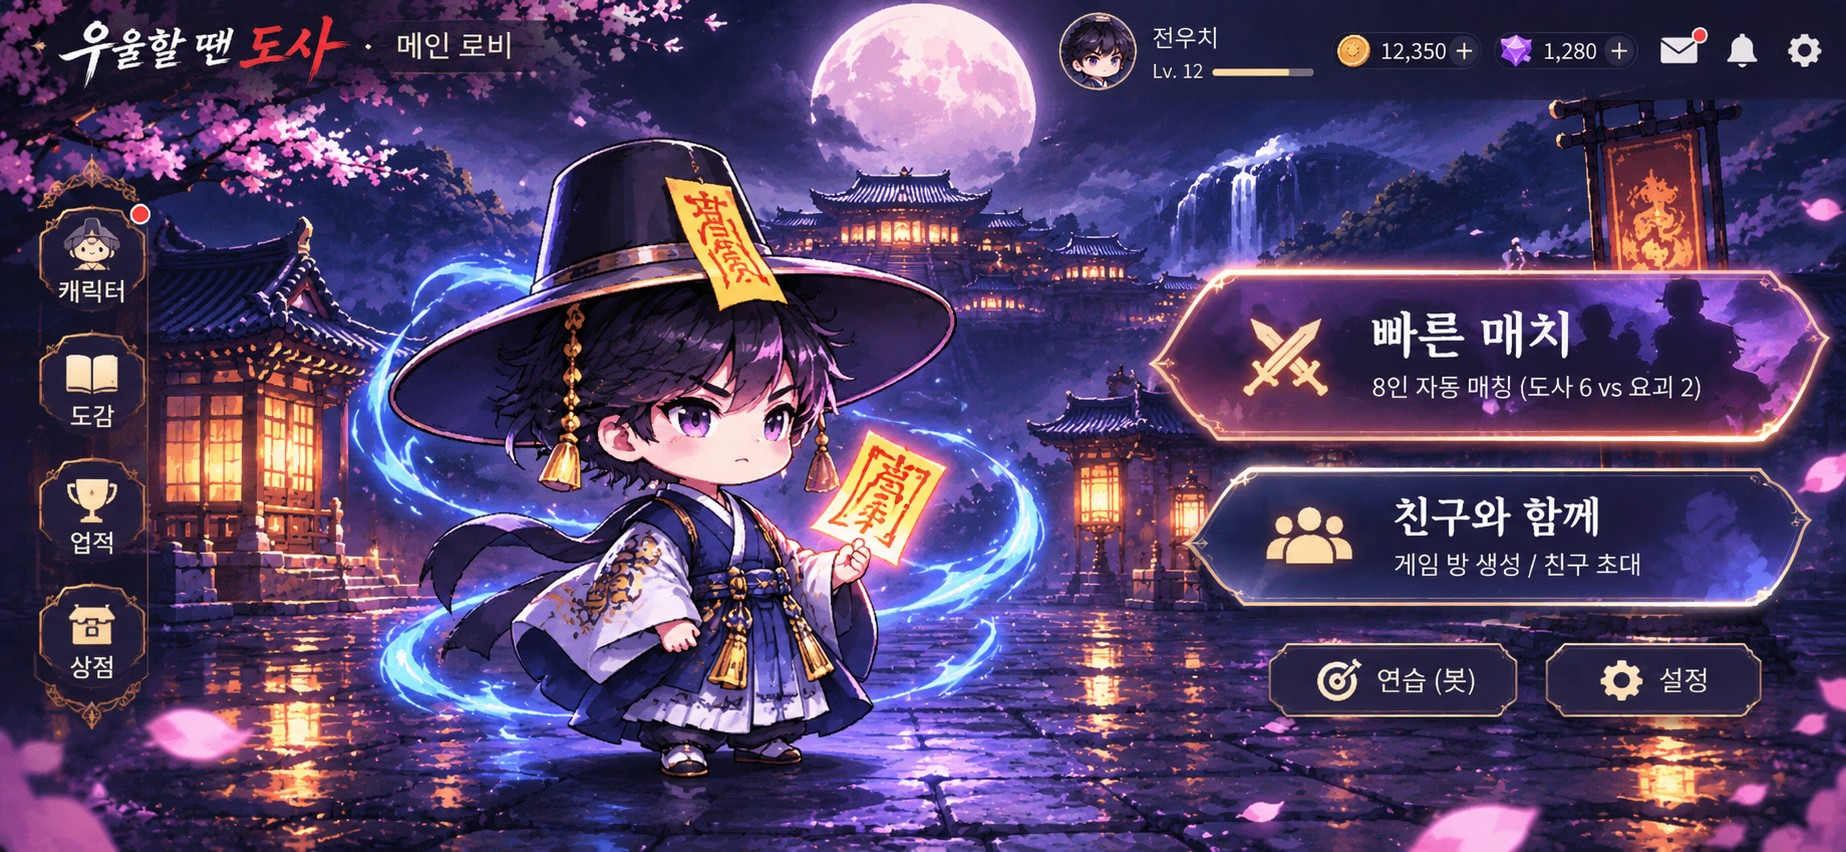
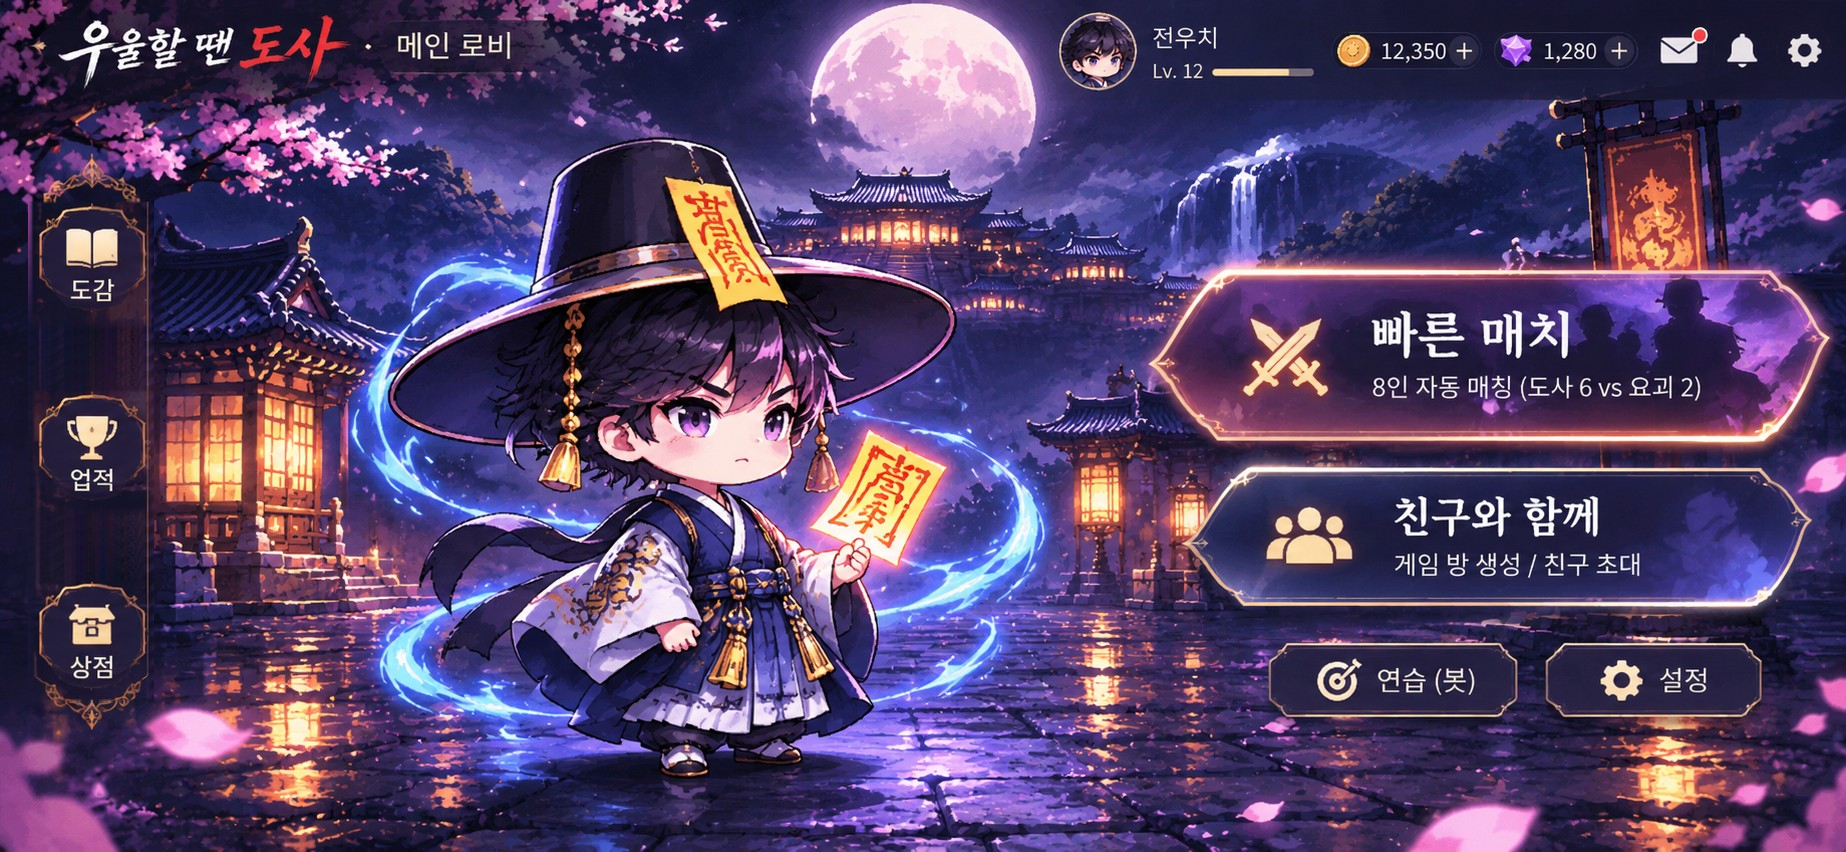
2.0.29 로비 왼쪽 레일 캐릭터 버튼 제거: 도감·업적·상점 3개만 남기고 같은 간격으로 정렬
- 그림(assets/woo/lobby_bg.png)의 캐릭터 메달을 지우고 도감·업적·상점 메달을
  같은 간격(피치 189px)으로 재배치. 메달은 원화에서 그대로 잘라 써서 아이콘·글자·
  금테가 100% 같고, 비운 자리는 패널 색 보간 + 원화 입자로 이음매 없이 채웠다
  (tools/build_lobby_rail_v29.py).
- 캐릭터 메달 위 알림 점도 함께 사라졌다.
- app.gd: LOBBY_HOTSPOTS에서 characters 제거, codex (34,202,96,119),
  achievements (34,391,96,119), shop (34,580,96,120). 도감 자리는 그대로
  open_codex("all")로 통합 도감을 연다.
- 테스트: lobby_hub에 3버튼 균등 간격·비겹침·도감 진입 검증 추가,
  character_codex는 도감 자리 진입(전체 탭 → 도사 탭)으로 정리, v27_gameplay도 함께 갱신.
- tools/test.sh 12개 스위트 전부 0 failures. 2340×1080 로비 렌더 확인.
- 버전 2.0.29 / versionCode 40.

Changed region(s): [[0.0, 0.2136, 0.0926, 0.6714]]

diff --git a/tools/build_lobby_rail_v29.py b/tools/build_lobby_rail_v29.py
@@ -1,0 +1,96 @@
+#!/usr/bin/env python3
+"""2.0.29: 로비 왼쪽 메뉴 레일의 중복 '캐릭터' 메달을 지우고 도감·업적·상점 3개만 남긴다.
+
+원화(assets/woo/lobby_bg.png)에서 메달을 그대로 잘라 쓰므로 아이콘·글자·금테 두께가
+100% 같다. 먼저 레일 안쪽(메달 네 칸 전부)을 메달 없는 패널로 비우고 -위·아래 패널 색
+보간에 원화 입자만 얹는다- 그 위에 메달을 아래로 길게 녹여 얹어 이음매가 보이지 않게 한다.
+
+사용: python3 tools/build_lobby_rail_v29.py
+"""
+from pathlib import Path
+
+from PIL import Image
+
+ROOT = Path(__file__).resolve().parent.parent
+ART = ROOT / "assets/woo/lobby_bg.png"
+
+# 레일 기둥의 가로 범위(메달·금테·기둥 장식선 포함).
+X0, X1 = 28, 154
+# 메달 자르기: (원본 위, 원본 아래, 새 위치, 아래쪽 페이드 줄 수).
+# 원본 상자에는 메달 아래 그림자(밝은 테)까지 넣고, 그 테를 아래로 부드럽게 녹인다.
+PATCHES = (
+    ("codex", 326, 456, 200, 12),
+    ("achievements", 452, 582, 389, 12),
+    ("shop", 578, 702, 578, 3),
+)
+# 메달이 있던 네 칸과, 칸을 비울 때 기준으로 삼을 위/아래 패널 줄.
+SEGMENTS = (
+    (200, 326, 199, 326),
+    (326, 452, 325, 452),
+    (452, 578, 451, 578),
+    (578, 702, 577, 702),
+)
+# 메달이 없는 깨끗한 띠(캐릭터 메달 아래)에서 원화 입자를 뜬다.
+STRIP = (X0, 313, X1, 328)
+FEATHER = 8
+
+
+def grain(source: Image.Image):
+    """띠에서 열별 평균을 뺀 입자만 남긴다(패널의 세로 장식선은 평균 쪽에 남는다)."""
+    width, height = STRIP[2] - STRIP[0], STRIP[3] - STRIP[1]
+    pixels = [[source.getpixel((STRIP[0] + x, STRIP[1] + y)) for x in range(width)] for y in range(height)]
+    residual = []
+    for y in range(height):
+        residual.append([])
+        for x in range(width):
+            column = [pixels[k][x] for k in range(height)]
+            average = [sum(c[i] for c in column) / height for i in range(3)]
+            residual[y].append(tuple(pixels[y][x][i] - average[i] for i in range(3)))
+    return residual
+
+
+def clear_band(base: Image.Image, y0: int, y1: int, top: int, bottom: int, residual) -> None:
+    """메달 한 칸을 위·아래 패널 색 보간과 원화 입자로 비운다."""
+    height, width = y1 - y0, X1 - X0
+    for y in range(height):
+        t = (y + 0.5) / height
+        row = residual[y % len(residual)]
+        for x in range(width):
+            above = base.getpixel((X0 + x, top))
+            below = base.getpixel((X0 + x, bottom))
+            value = []
+            for i in range(3):
+                blend = above[i] + (below[i] - above[i]) * t
+                value.append(max(0, min(255, int(round(blend + row[x][i] * 0.85)))))
+            base.putpixel((X0 + x, y0 + y), tuple(value))
+
+
+def plate_mask(size, bottom_feather: int) -> Image.Image:
+    """메달을 감싸는 사각 마스크. 가운데는 불투명, 가장자리만 부드럽게 사라진다."""
+    width, height = size
+    mask = Image.new("L", size, 0)
+    pixels = mask.load()
+    for y in range(height):
+        top = min(1.0, y / 3)
+        bottom = min(1.0, (height - 1 - y) / max(1, bottom_feather))
+        for x in range(width):
+            side = min(1.0, min(x, width - 1 - x) / FEATHER)
+            pixels[x, y] = int(255 * min(side, top, bottom))
+    return mask
+
+
+def main() -> None:
+    source = Image.open(ART).convert("RGB")
+    base = source.copy()
+    residual = grain(source)
+    for y0, y1, top, bottom in SEGMENTS:
+        clear_band(base, y0, y1, top, bottom, residual)
+    for name, sy0, sy1, dy, fade in PATCHES:
+        patch = source.crop((X0, sy0, X1, sy1))
+        base.paste(patch, (X0, dy), plate_mask(patch.size, fade))
+    base.save(ART)
+    print("LOBBY RAIL 3 BUTTONS:", ", ".join(f"{n}@{d}" for n, _, _, d, _ in PATCHES))
+
+
+if __name__ == "__main__":
+    main()
